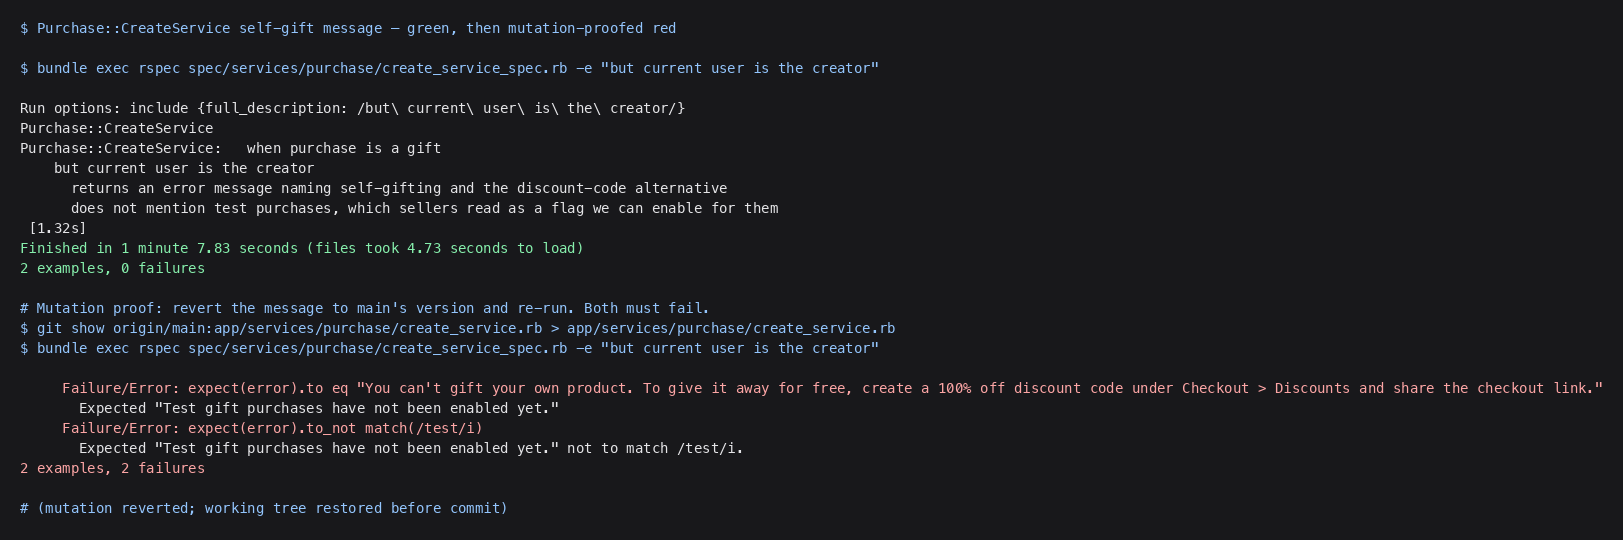
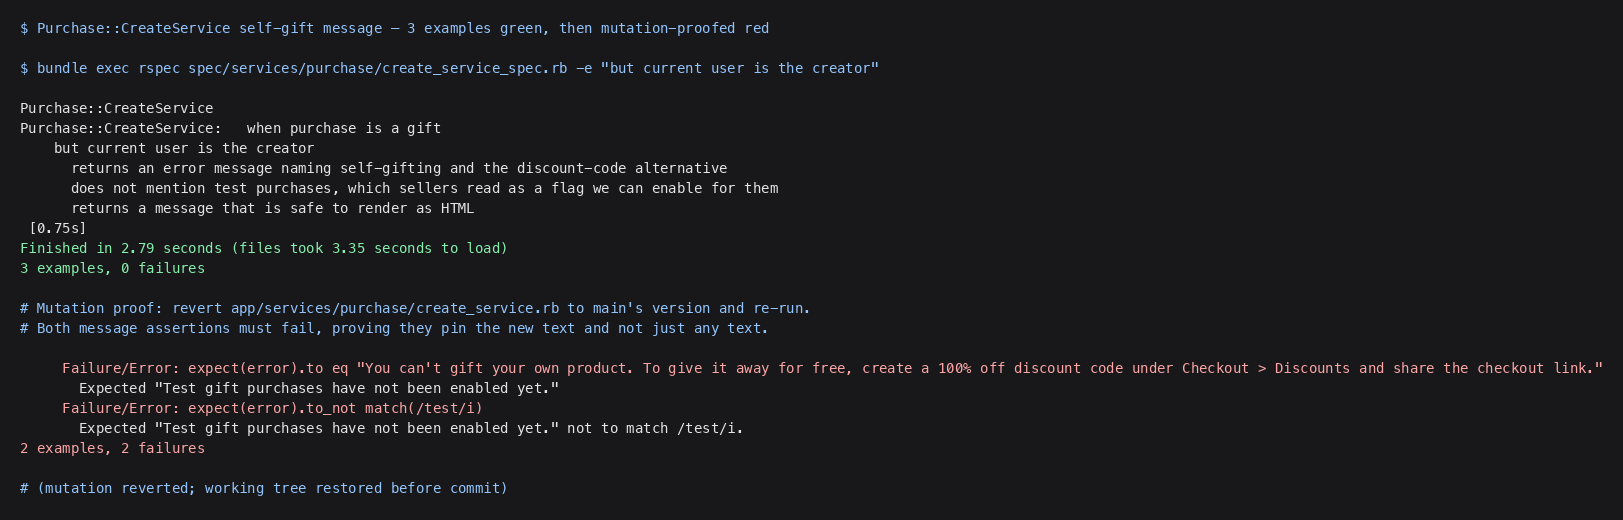
Pin that the self-gift message stays safe to render as HTML
The adversarial pre-merge review found that purchase error messages reach the
buyer through Receipt.tsx, which renders them with dangerouslySetInnerHTML.
The new wording contains "Checkout > Discounts"; a bare ">" is inert, so the
shipped string is fine, but nothing recorded that constraint. This adds a spec
so a future rewording cannot silently start emitting markup, and refreshes the
spec-results evidence for the new example count.

diff --git a/spec/services/purchase/create_service_spec.rb b/spec/services/purchase/create_service_spec.rb
@@ -2437,6 +2437,22 @@ describe Purchase::CreateService, :vcr do
         expect(error).to_not match(/test/i)
         expect(error).to_not match(/enabled/i)
       end
+
+      # Purchase error messages reach the buyer through Receipt.tsx, which renders them with
+      # dangerouslySetInnerHTML, so anything in this string is interpreted as markup rather than
+      # text. The current wording contains "Checkout > Discounts"; a bare ">" is inert, but a "<"
+      # or a bare "&" would be swallowed or mis-rendered. This pins that constraint so a future
+      # rewording of the message cannot silently start emitting markup.
+      it "returns a message that is safe to render as HTML" do
+        _, error = Purchase::CreateService.new(
+          product:,
+          params: gift_params,
+          buyer: product.user
+        ).perform
+
+        expect(error).to_not include("<")
+        expect(error).to_not match(/&(?!amp;|lt;|gt;|quot;|#)/)
+      end
     end
 
     context "but the gifter and giftee emails are the same" do
